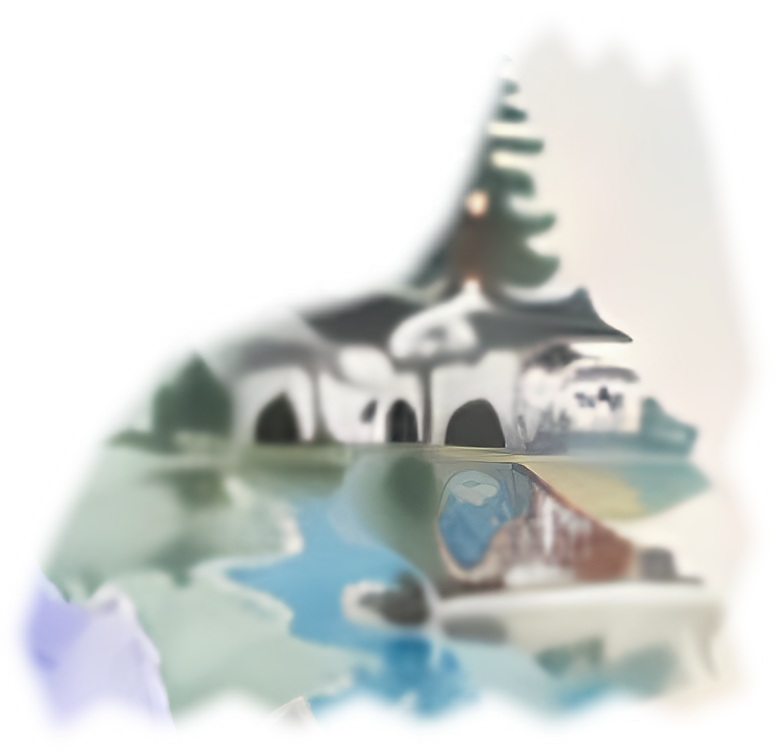
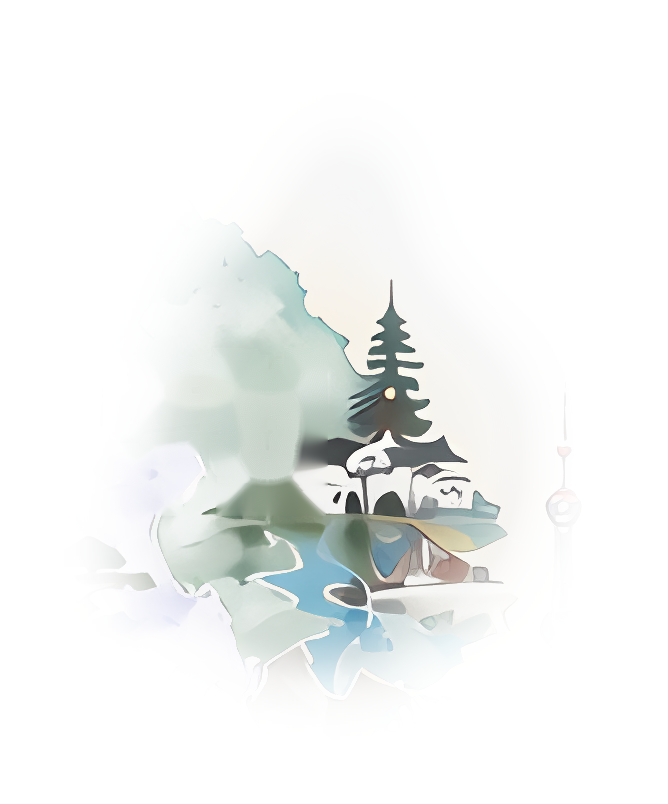
feat: 九省插画全面重制 —— 有机水彩斑点 + 省域中心锚点 + 1.35x 放大
- 弃用紧贴多边形抠图(贴纸感),改为有机软边斑点区域:
  噪声扰动椭圆并集 + 高斯羽化,内部按主体度做 0.42~1.0 渐变 alpha,
  multiply 混合下水彩晕染与地图省域色自然融合
- 全部取自整图 Real-ESRGAN 4x(_ref4x.png),无单图超分边缘伪影
- 内嵌省名书法字用 OpenCV TELEA inpaint 从 4x 整图全局修补,
  不留刻除白洞;修复了旧模板匹配 origin 错位导致的江苏/安徽/福建内容轮转 bug
- 锚点改用省域多边形内切极点(视觉中心),离线 Mercator 约束求解,
  避让街道节点与邻省插画;离线合成预览验证,不再依赖浏览器
- 全部尺寸放大 ~1.35x(四川130/云南143/河南106/湖北114/江苏110...)

diff --git a/web/src/data/provArt.ts b/web/src/data/provArt.ts
@@ -18,13 +18,13 @@ export interface ProvArt {
 }
 
 export const PROV_ART: ProvArt[] = [
-  { prov: '四川省', short: '四川', coord: [97.43, 33.87],   file: 'prov-sichuan.png', size: 96 },
-  { prov: '云南省', short: '云南', coord: [97.61, 24.77],   file: 'prov-yunnan.png',  size: 100 },
-  { prov: '北京市', short: '北京', coord: [116.44, 41.13],  file: 'prov-beijing.png', size: 40 },
-  { prov: '山西省', short: '山西', coord: [112.45, 40.23],  file: 'prov-shanxi.png',  size: 60 },
-  { prov: '河南省', short: '河南', coord: [112.59, 33.96],  file: 'prov-henan.png',   size: 78 },
-  { prov: '湖北省', short: '湖北', coord: [108.67, 30.5],   file: 'prov-hubei.png',   size: 84 },
-  { prov: '江苏省', short: '江苏', coord: [120.74, 33.3],   file: 'prov-jiangsu.png', size: 92 },
-  { prov: '安徽省', short: '安徽', coord: [117.34, 32.28],  file: 'prov-anhui.png',   size: 80 },
-  { prov: '福建省', short: '福建', coord: [116.54, 26.76],  file: 'prov-fujian.png',  size: 70 },
+  { prov: '四川省', short: '四川', coord: [101.86, 30.21],  file: 'prov-sichuan.png', size: 130 },
+  { prov: '云南省', short: '云南', coord: [101.06, 24.32],  file: 'prov-yunnan.png',  size: 143 },
+  { prov: '北京市', short: '北京', coord: [116.46, 40.18],  file: 'prov-beijing.png', size: 64 },
+  { prov: '山西省', short: '山西', coord: [112.01, 36.74],  file: 'prov-shanxi.png',  size: 84 },
+  { prov: '河南省', short: '河南', coord: [113.65, 33.95],  file: 'prov-henan.png',   size: 106 },
+  { prov: '湖北省', short: '湖北', coord: [112.61, 31.06],  file: 'prov-hubei.png',   size: 114 },
+  { prov: '江苏省', short: '江苏', coord: [120.1, 32.09],   file: 'prov-jiangsu.png', size: 110 },
+  { prov: '安徽省', short: '安徽', coord: [117.32, 31.22],  file: 'prov-anhui.png',   size: 92 },
+  { prov: '福建省', short: '福建', coord: [118.19, 26.37],  file: 'prov-fujian.png',  size: 102 },
 ];
